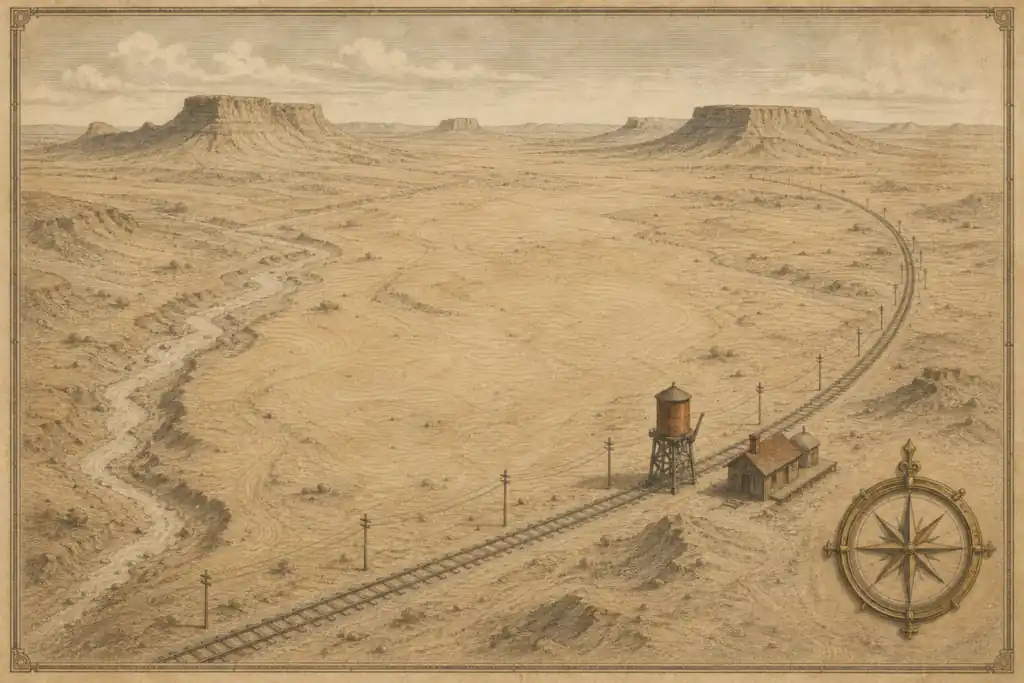
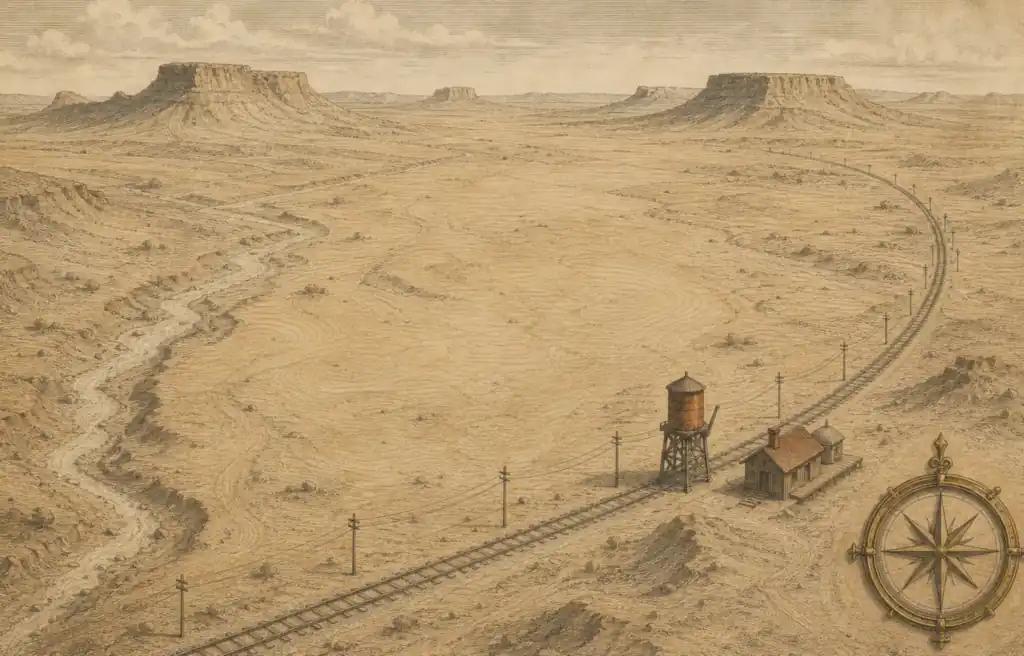
fix(ui): Frontier's map inside its frame, visible dust and steam (#413)

diff --git a/ui/themes/frontier/theme.css b/ui/themes/frontier/theme.css
@@ -29,7 +29,7 @@
   inset: 0;
   z-index: -1;
   pointer-events: none;
-  background: radial-gradient(ellipse 60% 45% at 92% 0%, rgba(255, 232, 178, 0.38), rgba(255, 232, 178, 0) 70%);
+  background: radial-gradient(ellipse 55% 45% at 90% 12%, rgba(255, 236, 190, 0.55), rgba(255, 236, 190, 0) 70%);
 }
 
 [data-theme="frontier"] h1,
@@ -334,8 +334,8 @@
   width: 240px;
   max-width: 100%;
   height: auto;
-  -webkit-mask-image: radial-gradient(ellipse 50% 50% at center, #000 60%, transparent 100%);
-  mask-image: radial-gradient(ellipse 50% 50% at center, #000 60%, transparent 100%);
+  -webkit-mask-image: radial-gradient(ellipse 50% 50% at center, #000 72%, transparent 100%);
+  mask-image: radial-gradient(ellipse 50% 50% at center, #000 72%, transparent 100%);
 }
 
 /* The local app's sync panel (#257). */

diff --git a/ui/src/ambient/presets.ts b/ui/src/ambient/presets.ts
@@ -287,11 +287,11 @@ export const frontier: Preset = {
     return p.age < p.life && p.x > -12 && p.x < w + 60 && p.y > -60 && p.y < h + 40;
   },
   alpha(p) {
-    return p.kind === 0 ? lifeFade(p, 0.15) * 0.5 : lifeFade(p, 0.3) * 0.32;
+    return p.kind === 0 ? lifeFade(p, 0.15) * 0.6 : lifeFade(p, 0.3) * 0.55;
   },
   sprites: (make) => [
-    make(6, glow('176, 141, 60', 0.35)),
-    make(64, glow('236, 228, 210', 0.1)),
+    make(6, glow('110, 78, 40', 0.45)),
+    make(64, glow('253, 250, 243', 0.15)),
   ],
   draw: (ctx, p, s) => stamp(ctx, s[p.kind], p),
 };

diff --git a/docs/decisions/413-frontier-theme.md b/docs/decisions/413-frontier-theme.md
@@ -46,10 +46,10 @@
   per-theme switch removes the particles like every other theme's.
 - **Art.** Four images from the Images API (gpt-image-2, medium), optimised to WebP:
   `wood.webp` (a seamless 512 by 436 tile, cut on the plank gaps and cross-faded at
-  its sides, 14 KB), `survey-map.webp` (44 KB), `locomotive.webp` (loading, 18 KB) and
+  its sides, 14 KB), `survey-map.webp` (cropped inside the plate's printed frame, 47 KB), `locomotive.webp` (loading, 18 KB) and
   `wanted-poster.webp` (empty and lost, 27 KB). The badge, the brass frame, the rivet
   rail, the gauge, the telegraph key and the busted axle are hand-written SVG. The
-  set is 10 files, about 108 KB. `.claude/image-generation/style-frontier.md` holds
+  set is 10 files, about 112 KB. `.claude/image-generation/style-frontier.md` holds
   the style the images were generated with. No names, logos, characters or
   recognisable designs from any book, film, game, show or railroad company.
 - **The badge** keeps the tile's silhouette (`test/brand-sync.test.ts`) as a riveted
